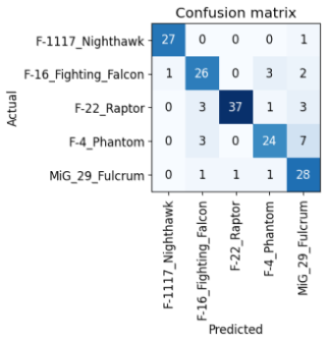
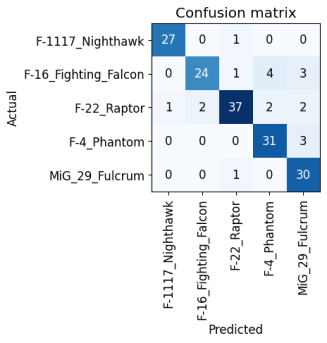
Final

diff --git a/Fighterjets-Streamlit.py b/Fighterjets-Streamlit.py
@@ -7,7 +7,7 @@ import torch
 st.title("Fighterjets image classification")
 st.subheader(':blue[_Created by Wouter Selis & Kieran Cornelissen & Gilles Witters_] :male-technologist:', divider='rainbow')
 
-st.write("In this streamlit app you can test our classification model for fighterjets. The goal of this project is to classify 5 different fighterjets: F-1117 Nighthawk, F-16 Fighting Falcon, F-22 Raptor, F-4 Phantom, MiG-29 Fulcrum. We also compared our model with Google Teachable Machine and you can see the results below. Our model is created with fastAi and resnet50. To test our model you can upload an image and view the prediction and how certain our model is.")
+st.write("In this streamlit app you can test our classification model for fighterjets. The goal of this project is to classify 5 different fighterjets: F-1117 Nighthawk, F-16 Fighting Falcon, F-22 Raptor, F-4 Phantom, MiG-29 Fulcrum. We also compared our model with Google Teachable Machine and you can see the results below. Our model is created with fastAi, resnet50 and uses the fit_one_cycle() method for better performance in speed and accuracy. To test our model you can upload an image and view the prediction and how certain our model is.")
 
 #image uploader to predict
 allowed_types = ("jpg", "jpeg", "png")
@@ -36,7 +36,7 @@ st.write("")
 st.subheader("Confusion matrix models: ")
 st.write("")
 
-st.write("Here we compare the confusion matrix from our model with the confusion matrix from Google Teachable Machine. As you can see the accuracy of our model is in all cases the better one in classifying the planes except for the F-4 Phantom. In general our model is more accurate than Google Teachable Machine.")
+st.write("Here we compare the confusion matrix from our model with the confusion matrix from Google Teachable Machine. As you can see the accuracy of our model is in all cases higher. This means our model is more accurate in classifying fighterjets.")
 
 with st.container():
     col1, col2 = st.columns(2)
@@ -44,7 +44,7 @@ with st.container():
         st.write("**Our model:**")
         st.image('./images/CM_OurModel.png')
         st.write("Accuracy per class:")
-        lst=["F-1117 Nighthawk: 96%","F-16 Fighting Falcon: 81%","F-22 Raptor: 84%","F-4 Phantom: 71%","MiG-29 Fulcrum: 90%"]
+        lst=["F-1117 Nighthawk: 96%","F-16 Fighting Falcon: 75%","F-22 Raptor: 84%","F-4 Phantom: 91%","MiG-29 Fulcrum: 97%"]
         for i in lst:
             st.markdown("- " + i)
        
@@ -62,7 +62,7 @@ st.divider()
 st.write("")
 st.subheader("Losses: ")
 st.write("")
-st.write("Here we can compare the loss of the models. The difference between our loss and the Google Teachable Machine loss is that our validation loss stabilize and slightly descents but with Google Teachable Machine it slightly increases. When the validation loss starts to increase this most likely means that the model is overfitted. We can also see that our final validation loss ends on +-0.6 and Google Teachable Machine's validation loss ends on +-0.8.")
+st.write("Here we can compare the loss of the models. The difference between our loss and the Google Teachable Machine loss is that our validation loss has a big peak and rapidly descents. This means our model was overfitting and the learning rate was changed accordly due to adam. With Google Teachable Machine the validation loss first started to increas and overfit but then it stabilized and increases slightly. We can also see that our final validation loss ends under 0.5 and Google Teachable Machine's validation loss ends on +-0.8.")
 
 with st.container():
     col1, col2 = st.columns(2)
